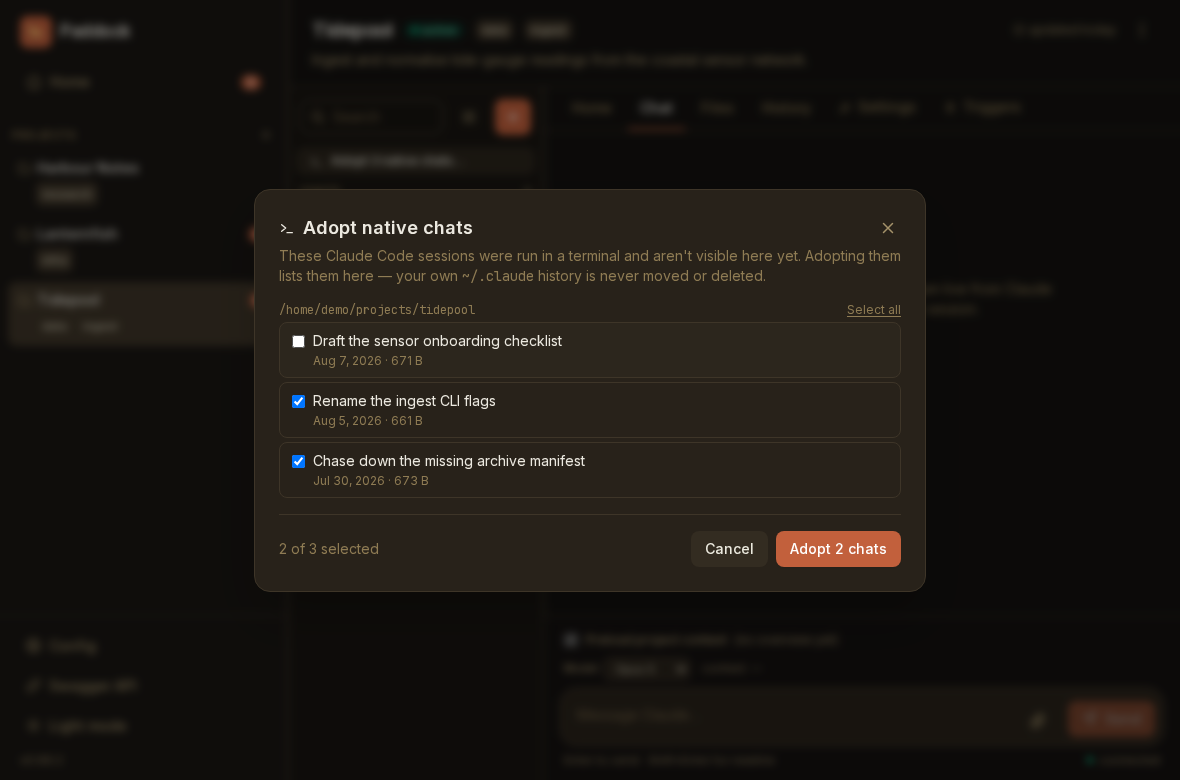
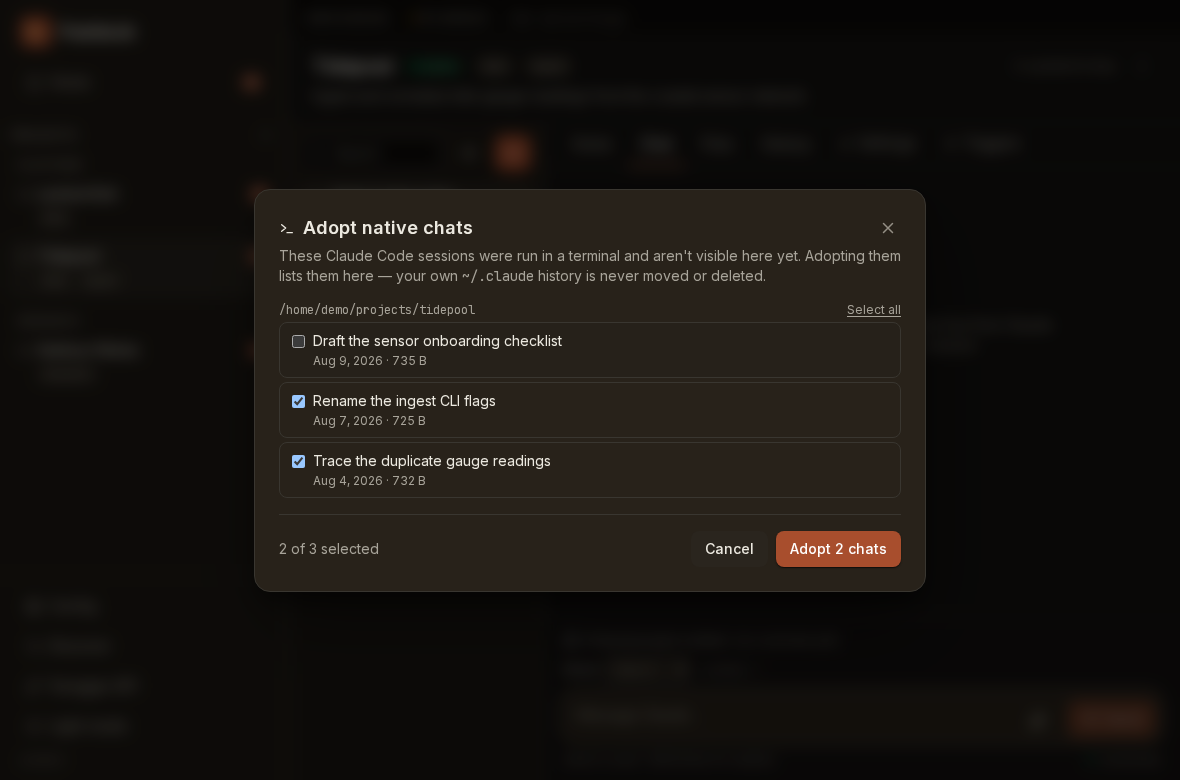
docs(website): re-shoot the stale stills on the 0.67+ UI
Every UI-bearing image on the site predated the redesign, including the seven
committed the previous pass — those were merged 41 minutes before the first
design commit, so age was never the criterion.

Foundation dark at the out-of-box default (DEFAULT_APPEARANCE; paddock:theme
defaults to dark), which is what a reader sees on first boot. The theme quartet
is the deliberate exception: there the choice itself is the subject.

diff --git a/website/src/content/docs/using/working-in-chats.md b/website/src/content/docs/using/working-in-chats.md
@@ -77,7 +77,7 @@ terminal icon) so you can tell them from chats started here — see
 [Provenance](/concepts/provenance/). They are *not* counted as unattended runs:
 you had those conversations, just somewhere else.
 
-![A chat list in which one row, "Trace the duplicate gaug…", carries a small emerald terminal icon at its right edge marking it as adopted; the three chats above it have no badge](../../../assets/using/adopted-badge.png)
+![A chat list in which one row, "Chase down the missing archi…", carries a small emerald terminal icon at its right edge marking it as adopted; the four chats above it have no badge](../../../assets/using/adopted-badge.png)
 
 :::note[When Paddock can't see your `~/.claude`]
 A containerised instance only sees what is mounted. Mount the history at the
